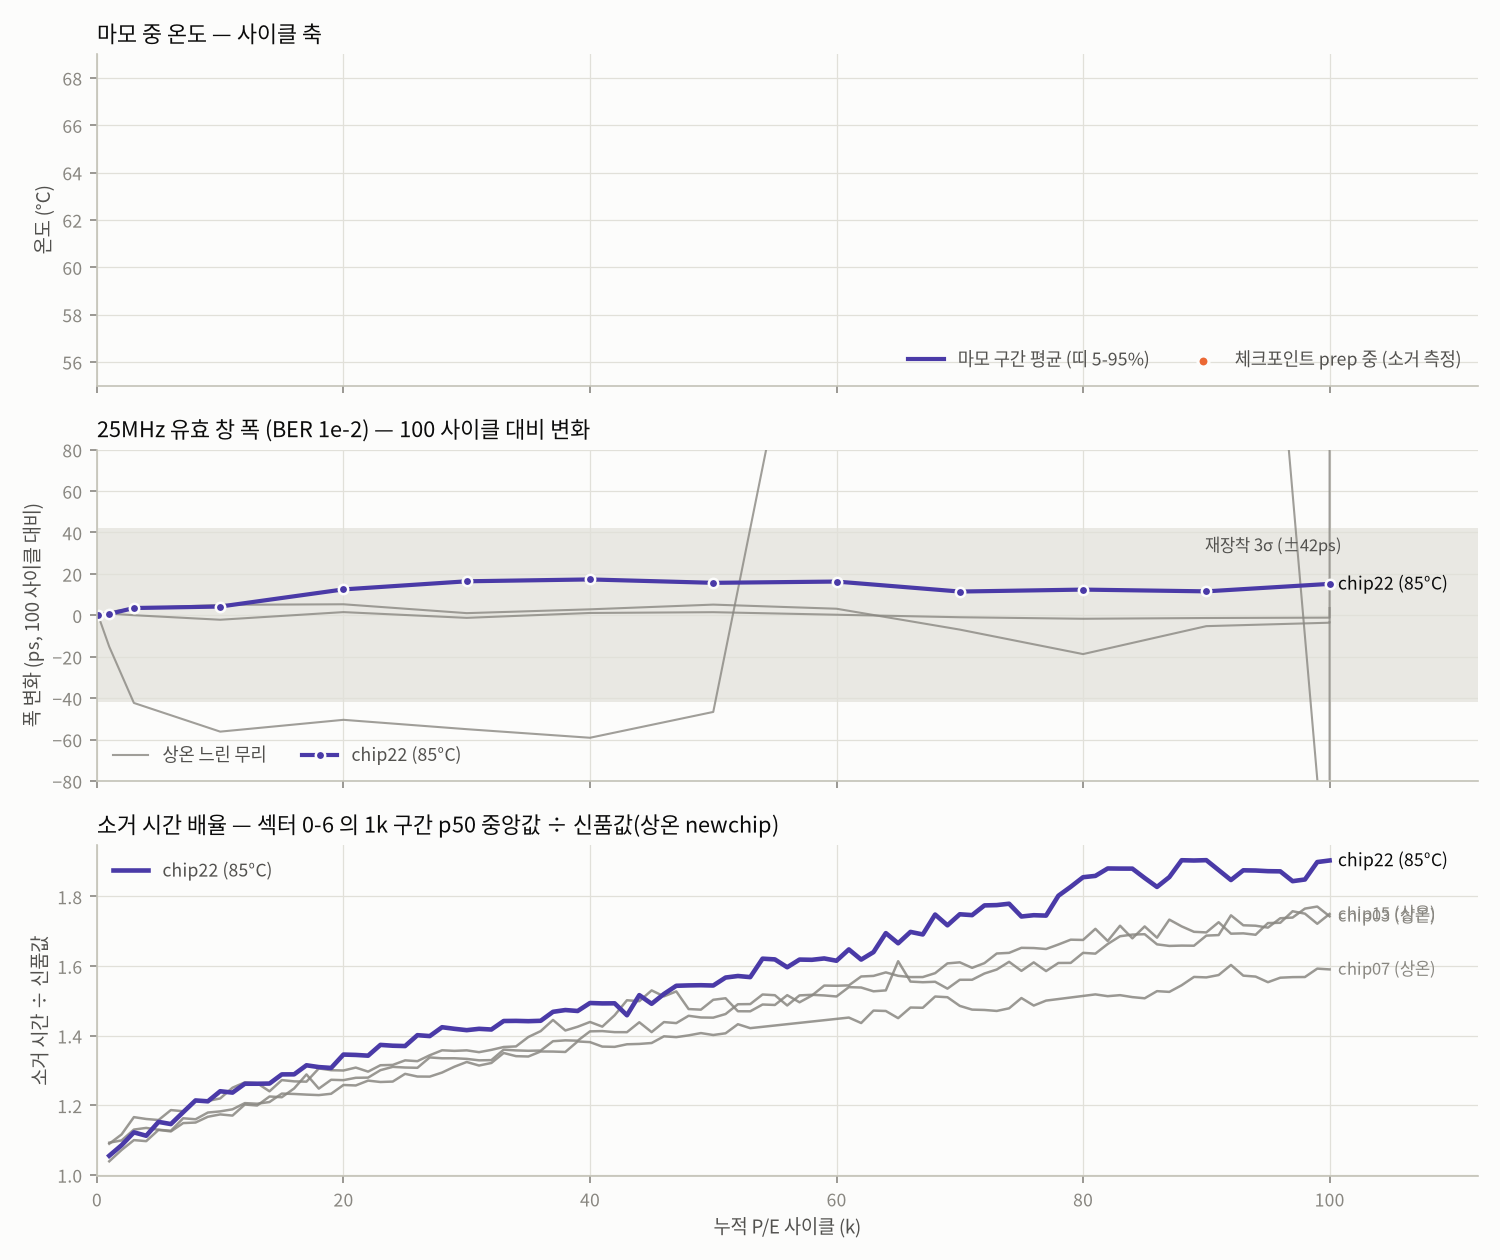
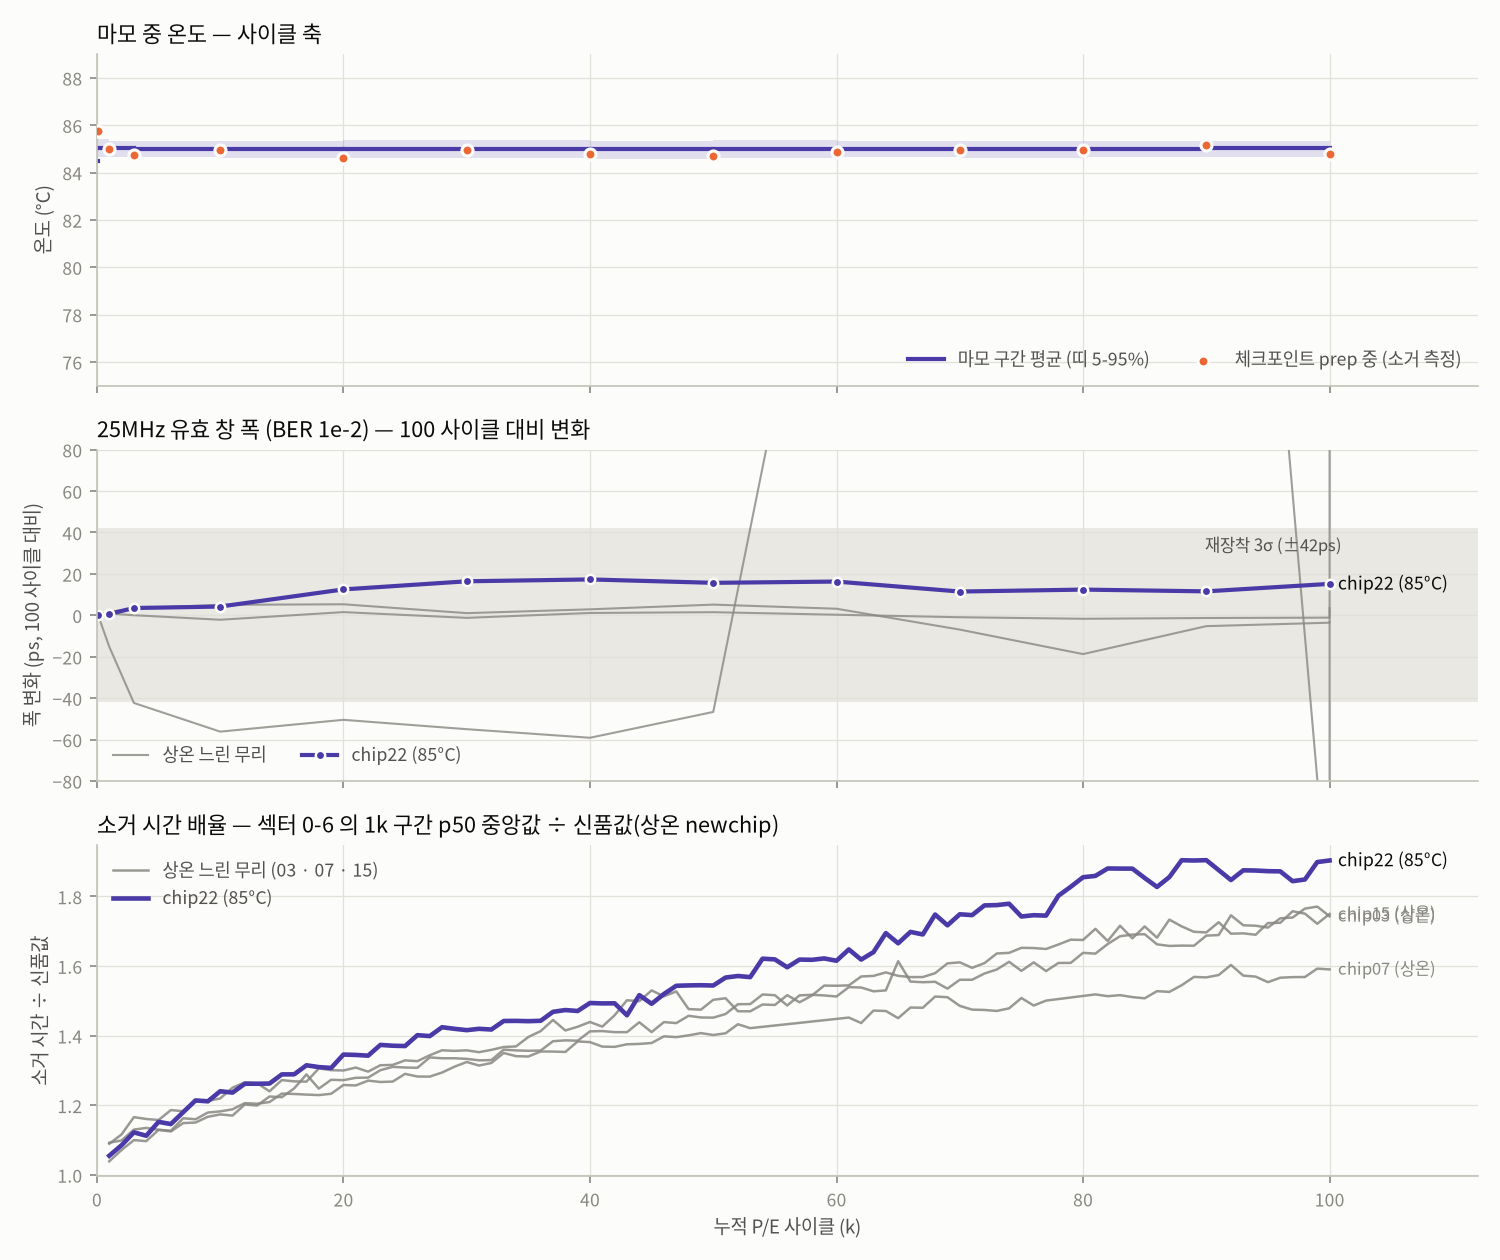
fix(temp_wear_summary): 85°C 칩 그림의 빈 온도 칸 · 중단 칩 — 온도 축을 설정값만큼 옮김(65°C 런의 55-69°C 고정이라 85°C 선이 축 밖이었다), x 축을 칩의 끝(체크포인트 또는 1k 곡선 끝)까지, 50k · 100k 비교점이 없는 칩(chip23 26.5k 중단)에서 죽던 것, 느린 무리 범례. 10/23 승격한 chip22 · 24 의 두 그림 다시. 테스트 178 (2026-11-01)

Changed region(s): [[0.0613, 0.0929, 0.8893, 0.1238], [0.092, 0.681, 0.184, 0.7119]]

diff --git a/host/analysis/temp_wear_summary.py b/host/analysis/temp_wear_summary.py
@@ -180,6 +180,7 @@ def main(argv=None):
     sp = max(set(run_tg), key=run_tg.count) if run_tg else 65.0     # 로그의 설정값(RUN 중 최빈) — 2026-10-23 부터 65 · 85°C 둘
     BAND = (sp - 2, sp + 2)                                    # 「설정 ±2°C 안」 띠 (열 이름 in_63_67_pct 는 65°C 때 이름 그대로 둔다)
     sp_lab = f"{sp:g}°C"
+    dy = sp - 65.0                                             # 온도 축을 설정값에 맞춰 옮긴다 (65°C 칩은 그대로)
     fresh = fresh_values()
     room = ROOM_FAST if fresh.get(a.chip, 0) < SPLIT_US else ROOM_SLOW   # 같은 무리의 상온 교정 칩과 겹쳐 그린다
     sw = sweep_info(a.chip)
@@ -293,8 +294,8 @@ def main(argv=None):
     for cyc in (100, 10000, 50000, 100000):
         if cyc in cps:
             x = cps[cyc]["end"].replace(tzinfo=None) + KST
-            ax.annotate(f"{cyc // 1000}k" if cyc >= 1000 else f"{cyc}", (x, 70.6), ha="center", fontsize=8, color=INK2)
-    ylo = 54
+            ax.annotate(f"{cyc // 1000}k" if cyc >= 1000 else f"{cyc}", (x, 70.6 + dy), ha="center", fontsize=8, color=INK2)
+    ylo = 54 + dy
     offs = [i for i in range(1, len(t)) if state[i] == "OFF" and state[i - 1] == "RUN"]
     for k, i in enumerate(offs):
         j = i + int(np.argmin(temp[i:i + 600]))
@@ -308,7 +309,7 @@ def main(argv=None):
     if first68 is not None and a.chip == "chip17":
         ax.annotate("설정 68°C — 히터 출력 상한(86%)에 붙어 약 65.4°C 에서 평형", (tk[first68] + timedelta(hours=2), 68.4),
                     fontsize=8, color=INK2)
-    ax.set_ylim(ylo, 71.5)
+    ax.set_ylim(ylo, 71.5 + dy)
     ax.set_ylabel("칩 위 온도 (°C, TMP117)", color=INK2, fontsize=9)
     ax.set_xlabel("시각 (KST) · 회색 띠 = 체크포인트 측정(prep + 스윕)", color=INK2, fontsize=9)
     import matplotlib.dates as mdates
@@ -335,10 +336,14 @@ def main(argv=None):
     my = [cp_stats[(cyc, "prep")]["mean_c"] for cyc in sorted(cps)]
     ax.scatter(mx, my, s=28, color=MEAS, edgecolor=SURFACE, lw=1.5, zorder=3, label="체크포인트 prep 중 (소거 측정)")
     ax.set_ylabel("온도 (°C)", color=INK2, fontsize=9)
-    ax.set_ylim(55, 69)
+    ax.set_ylim(55 + dy, 69 + dy)
     ax.legend(loc="lower right", frameon=False, fontsize=8.5, labelcolor=INK2, ncol=2)
     ax.set_title("마모 중 온도 — 사이클 축", color=INK, fontsize=10.5, loc="left")
 
+    xend = max(r["cycle"] for r in crows)                         # 이 칩의 끝 — 중단된 칩(chip23)은 100k 전, 1k 곡선이 더 가면 거기까지
+    if a.curves:
+        xend = max(xend, int(ratio_curve(a.curves, fresh[a.chip])[0][-1]))
+    xend = min(100000, xend)
     ax = axes[1]
     w100 = next(r["width_1e2_ps"] for r in crows if r["cycle"] == 100)
     ax.axhspan(-42, 42, color=GRID, alpha=0.7, lw=0)
@@ -349,7 +354,7 @@ def main(argv=None):
             continue
         with open(p, newline="") as f:
             pts = [(int(r["cycle"]), float(r["width_1e2_ps"])) for r in csv.DictReader(f)
-                   if r["mhz"] == "25" and r["width_1e2_ps"] and r["cycle"].isdigit() and 100 <= int(r["cycle"]) <= 100000]
+                   if r["mhz"] == "25" and r["width_1e2_ps"] and r["cycle"].isdigit() and 100 <= int(r["cycle"]) <= xend]
         if pts:
             base = dict(pts).get(100, pts[0][1])
             xs, ys = zip(*sorted(set(pts)))
@@ -370,9 +375,9 @@ def main(argv=None):
         for chip in room:
             p = latest(CURVES_DIR, f"wear_curves_{chip}")
             x, y = ratio_curve(p, fresh[chip])
-            m = x <= 100000
+            m = x <= xend
             ax.plot(x[m] / 1e3, y[m], color=MUTED, lw=1.2, alpha=0.85,
-                    label="상온 빠른 무리 (chip01 · 04 · 09)" if chip == "chip01" else None)
+                    label=("상온 빠른 무리" if room is ROOM_FAST else "상온 느린 무리") + f" ({' · '.join(c[4:] for c in room)})" if chip == room[0] else None)
             ax.annotate(f"{chip} (상온)", (x[m][-1] / 1e3, y[m][-1]), xytext=(4, 0), textcoords="offset points",
                         va="center", fontsize=8, color=MUTED)
         x, y = ratio_curve(a.curves, fresh[a.chip])
@@ -383,7 +388,7 @@ def main(argv=None):
         ax.set_ylabel("소거 시간 ÷ 신품값", color=INK2, fontsize=9)
         ax.set_title("소거 시간 배율 — 섹터 0-6 의 1k 구간 p50 중앙값 ÷ 신품값(상온 newchip)", color=INK, fontsize=10.5, loc="left")
     axes[-1].set_xlabel("누적 P/E 사이클 (k)", color=INK2, fontsize=9)
-    axes[-1].set_xlim(0, 112)
+    axes[-1].set_xlim(0, xend / 1e3 * 1.12)
     fig.tight_layout()
     fig.savefig(pdir / f"wear_temp_{a.chip}.png", facecolor=SURFACE)
     plt.close(fig)
@@ -397,6 +402,8 @@ def main(argv=None):
         x17, y17 = ratio_curve(a.curves, fresh[a.chip])
         ref = {c: ratio_curve(latest(CURVES_DIR, f"wear_curves_{c}"), fresh[c]) for c in room}
         for xe in (10000, 50000, 100000):
+            if xe not in x17:
+                continue
             r17 = float(y17[x17 == xe][0])
             others = {c: float(v[1][v[0] == xe][0]) for c, v in ref.items() if xe in v[0]}
             lo = np.log(list(others.values()))
@@ -408,7 +415,7 @@ def main(argv=None):
         for c, (x, y) in ref.items():
             hit = np.nonzero(y >= r_end)[0]
             if len(hit):
-                print(f"  {a.chip} 의 100k 배율 {r_end:.2f} 에 {c} 는 {x[hit[0]]:,} 사이클에 닿음 → 속도 비 {100000 / x[hit[0]]:.2f}")
+                print(f"  {a.chip} 의 {x17[-1] // 1000}k 배율 {r_end:.2f} 에 {c} 는 {x[hit[0]]:,} 사이클에 닿음 → 속도 비 {x17[-1] / x[hit[0]]:.2f}")
 
 
 if __name__ == "__main__":
